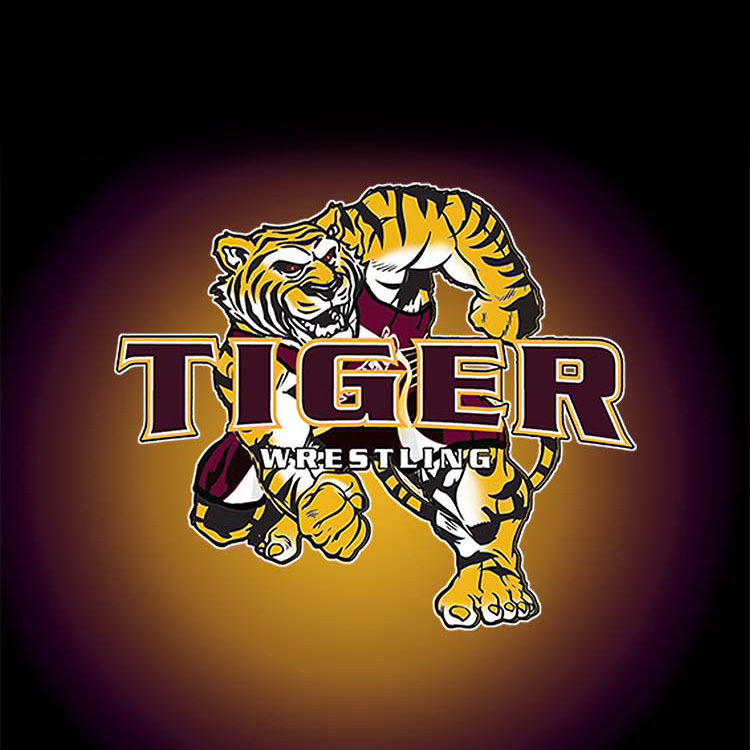
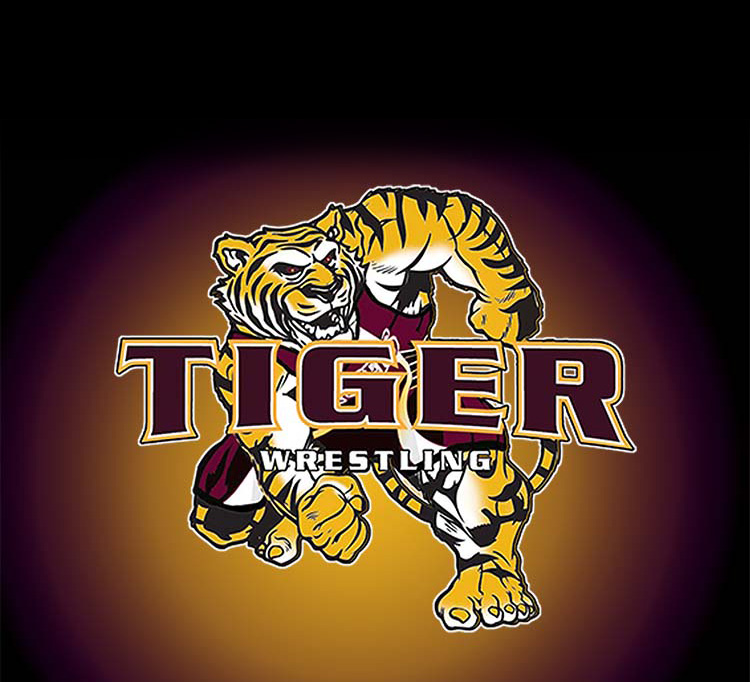
5

diff --git a/src/output.css b/src/output.css
@@ -591,16 +591,16 @@ html {
   top: 4rem;
 }
 
-.-z-50 {
-  z-index: -50;
-}
-
-.z-40 {
-  z-index: 40;
+.-z-40 {
+  z-index: -40;
 }
 
 .z-10 {
   z-index: 10;
+}
+
+.z-40 {
+  z-index: 40;
 }
 
 .z-20 {
@@ -836,11 +836,6 @@ html {
   border-color: rgb(55 6 19 / var(--tw-border-opacity));
 }
 
-.bg-black {
-  --tw-bg-opacity: 1;
-  background-color: rgb(0 0 0 / var(--tw-bg-opacity));
-}
-
 .bg-bordeaux-500 {
   --tw-bg-opacity: 1;
   background-color: rgb(92 10 31 / var(--tw-bg-opacity));
@@ -871,6 +866,11 @@ html {
 
 .bg-saffron-200\/80 {
   background-color: rgb(255 240 206 / 0.8);
+}
+
+.bg-black {
+  --tw-bg-opacity: 1;
+  background-color: rgb(0 0 0 / var(--tw-bg-opacity));
 }
 
 .bg-black\/40 {
@@ -937,10 +937,6 @@ html {
 .py-2 {
   padding-top: 0.5rem;
   padding-bottom: 0.5rem;
-}
-
-.pt-10 {
-  padding-top: 2.5rem;
 }
 
 .pb-1 {

diff --git a/src/index.html b/src/index.html
@@ -37,7 +37,7 @@
             <img
               src="./images/JC Wrestling icon 2.jpg"
               alt=""
-              class=" pt-10 -z-40"
+              class="sticky top-0  -z-40"
             />
             <div
               class="fixed z- flex flex-row items-end justify-end font-bold text-white backdrop-blur-2xl"
@@ -229,7 +229,7 @@
         <!-- facebook feed -->
         
           <div
-            class="z-10 flex flex-col items-center justify-start p-5 xl:items-end"
+            class="z-10 flex flex-col  items-center justify-start p-5 xl:items-end"
           >
             <div id="jchs" class="z-10 flex">
               <div class="flex w-full flex-col space-y-2 rounded-3xl p-1">
